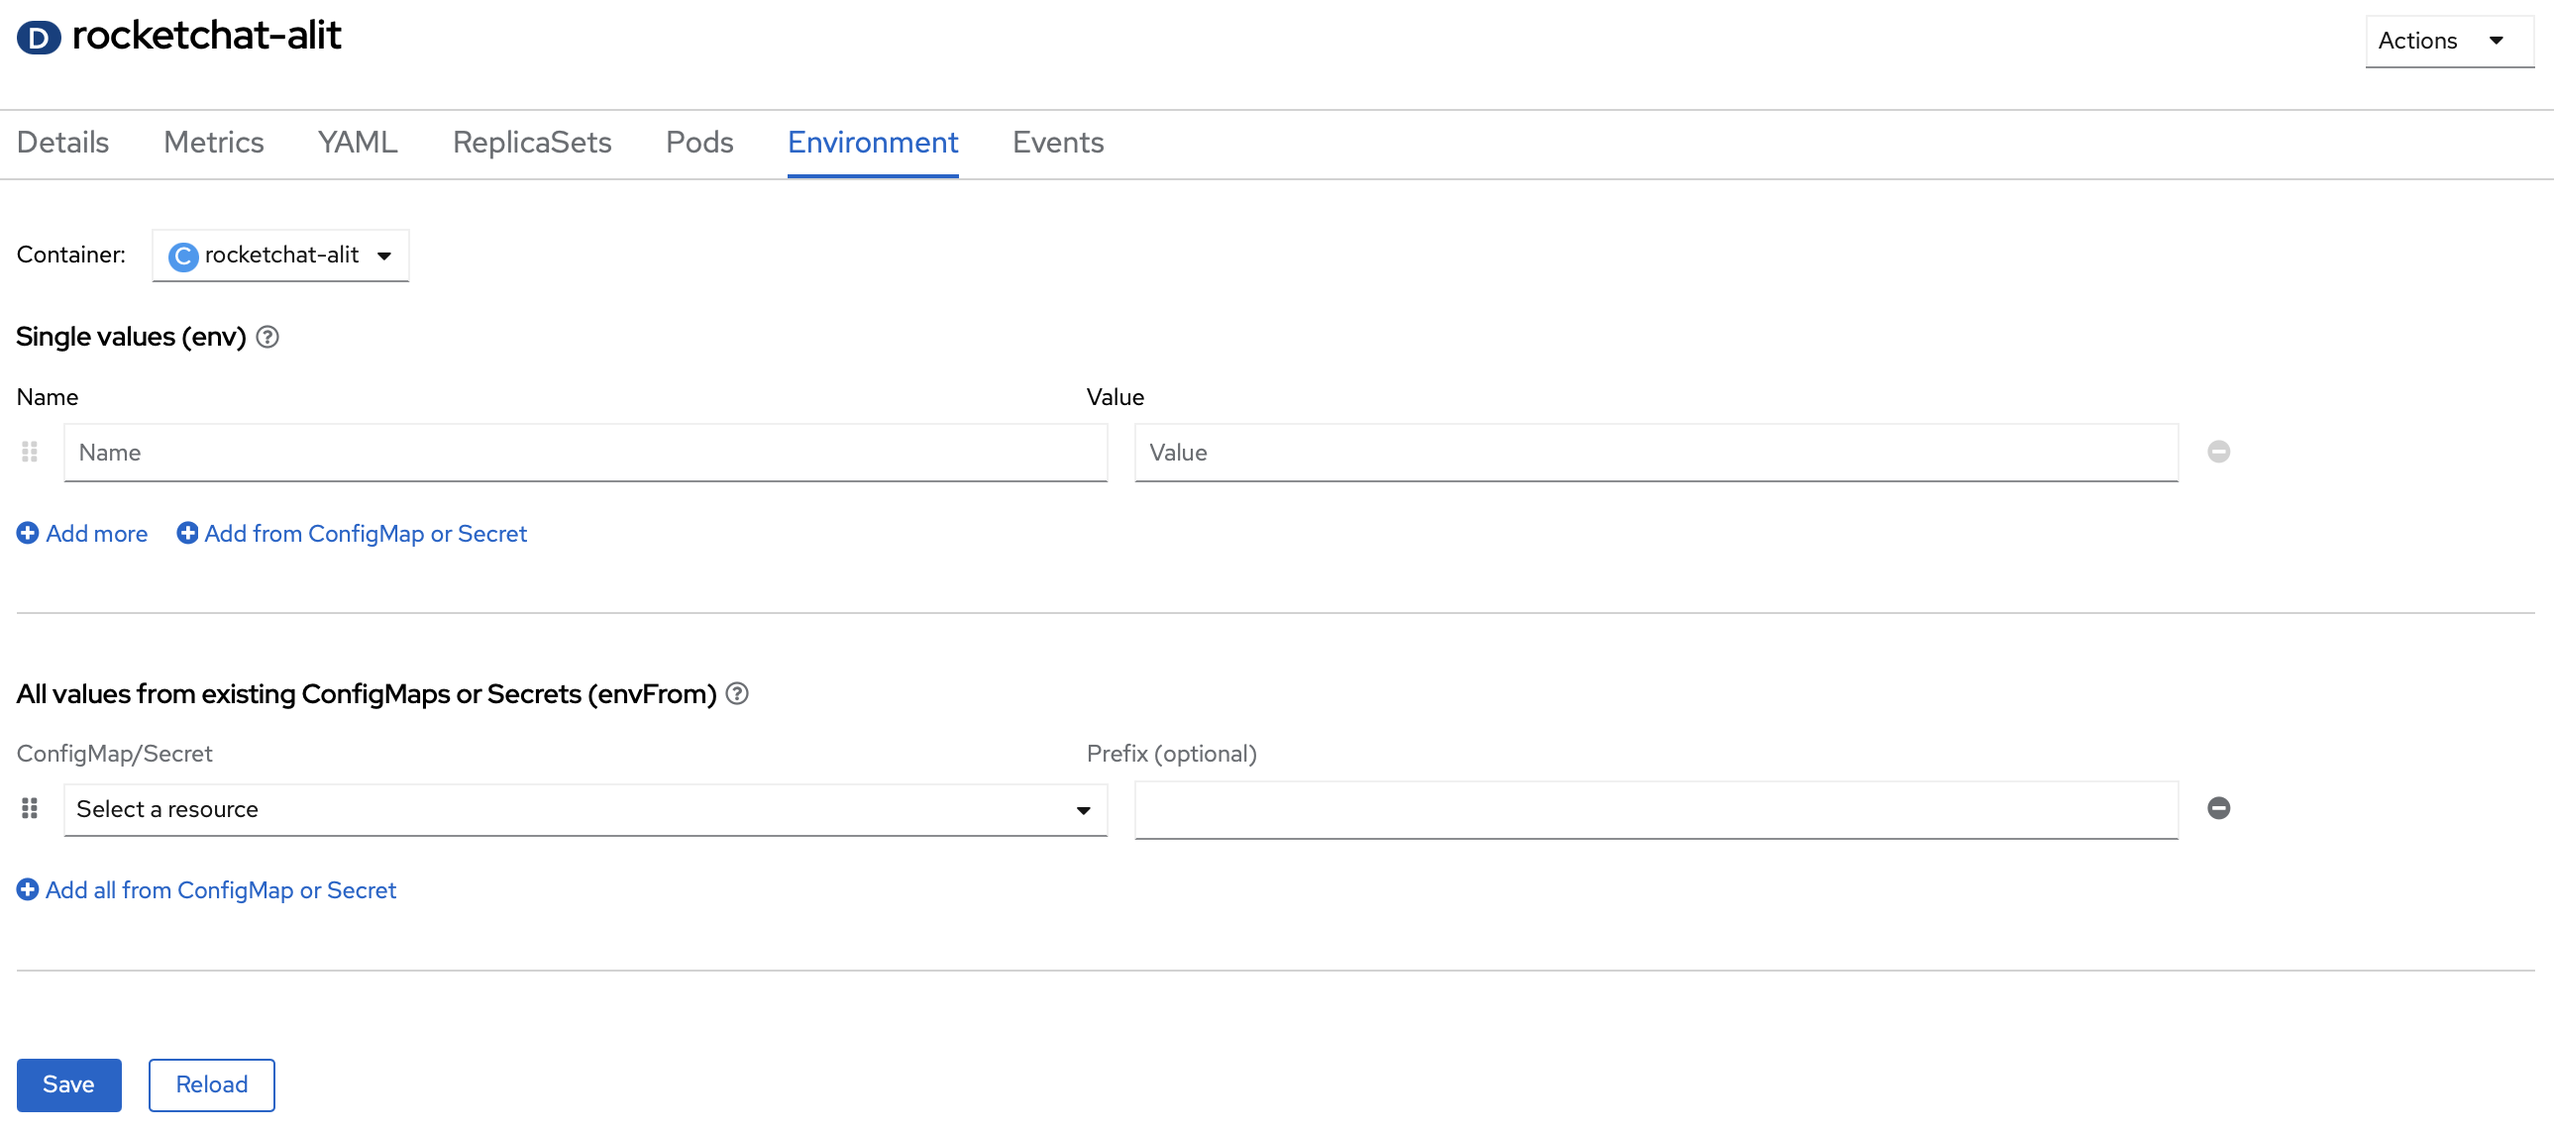
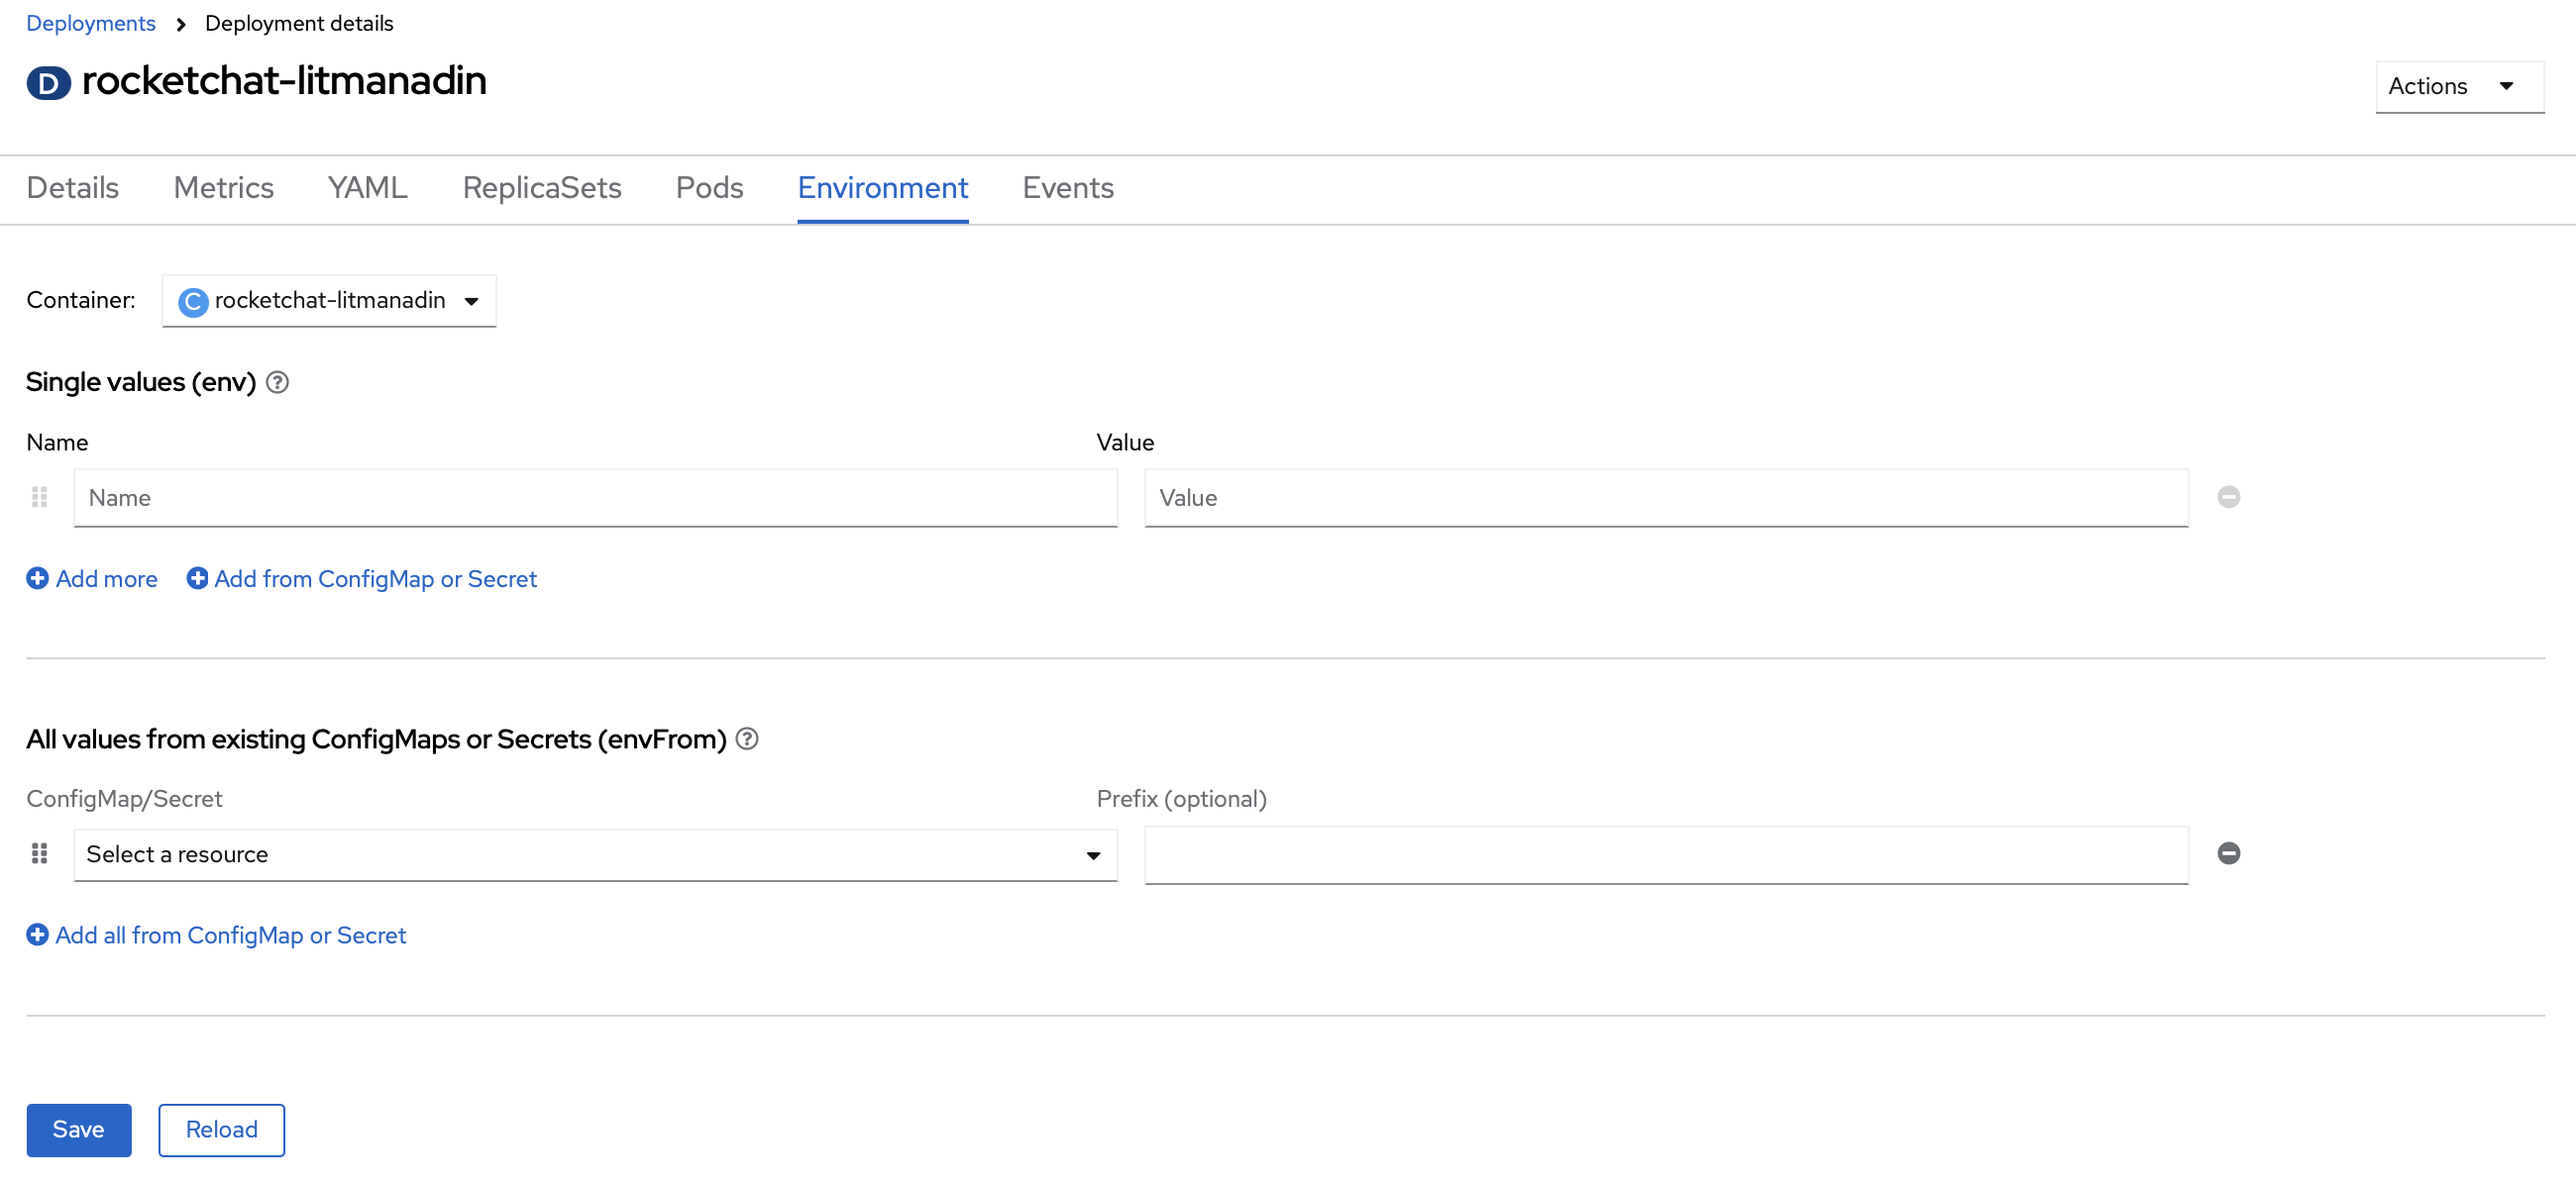
Fixing screenshot in Module 3 and formatting in Module 16

diff --git a/101-lab/content/16_templates.md b/101-lab/content/16_templates.md
@@ -94,7 +94,11 @@ secret/rocketchat-mattspencer-secret configured (dry run)
 **Note:** If your output contains any warnings, such as the one shown below, that is OK. These warnings appear because the objects in this lab were originally created using commands like `oc new-app`, `oc create`, `oc import-image`, and `oc tag`. These commands create the resources, but they do not store the “last applied configuration” annotation that `oc apply` relies on. When you run `oc apply` for the first time, OpenShift notices the annotation is missing, shows a warning, and then automatically adds the annotation for you. Future applies will not show this warning.
 
 ```
-Warning: resource services/mongodb-[username] is missing the kubectl.kubernetes.io/last-applied-configuration annotation which is required by oc apply. oc apply should only be used on resources created declaratively by either oc create --save-config or oc apply. The missing annotation will be patched automatically.
+Warning: resource services/mongodb-[username] is missing the
+kubectl.kubernetes.io/last-applied-configuration annotation which
+is required by oc apply. oc apply should only be used on resources
+created declaratively by either oc create --save-config or oc apply.
+The missing annotation will be patched automatically.
 ```
 
 If the dry run looks to be producing a successful output, let's move on to test our template. 
